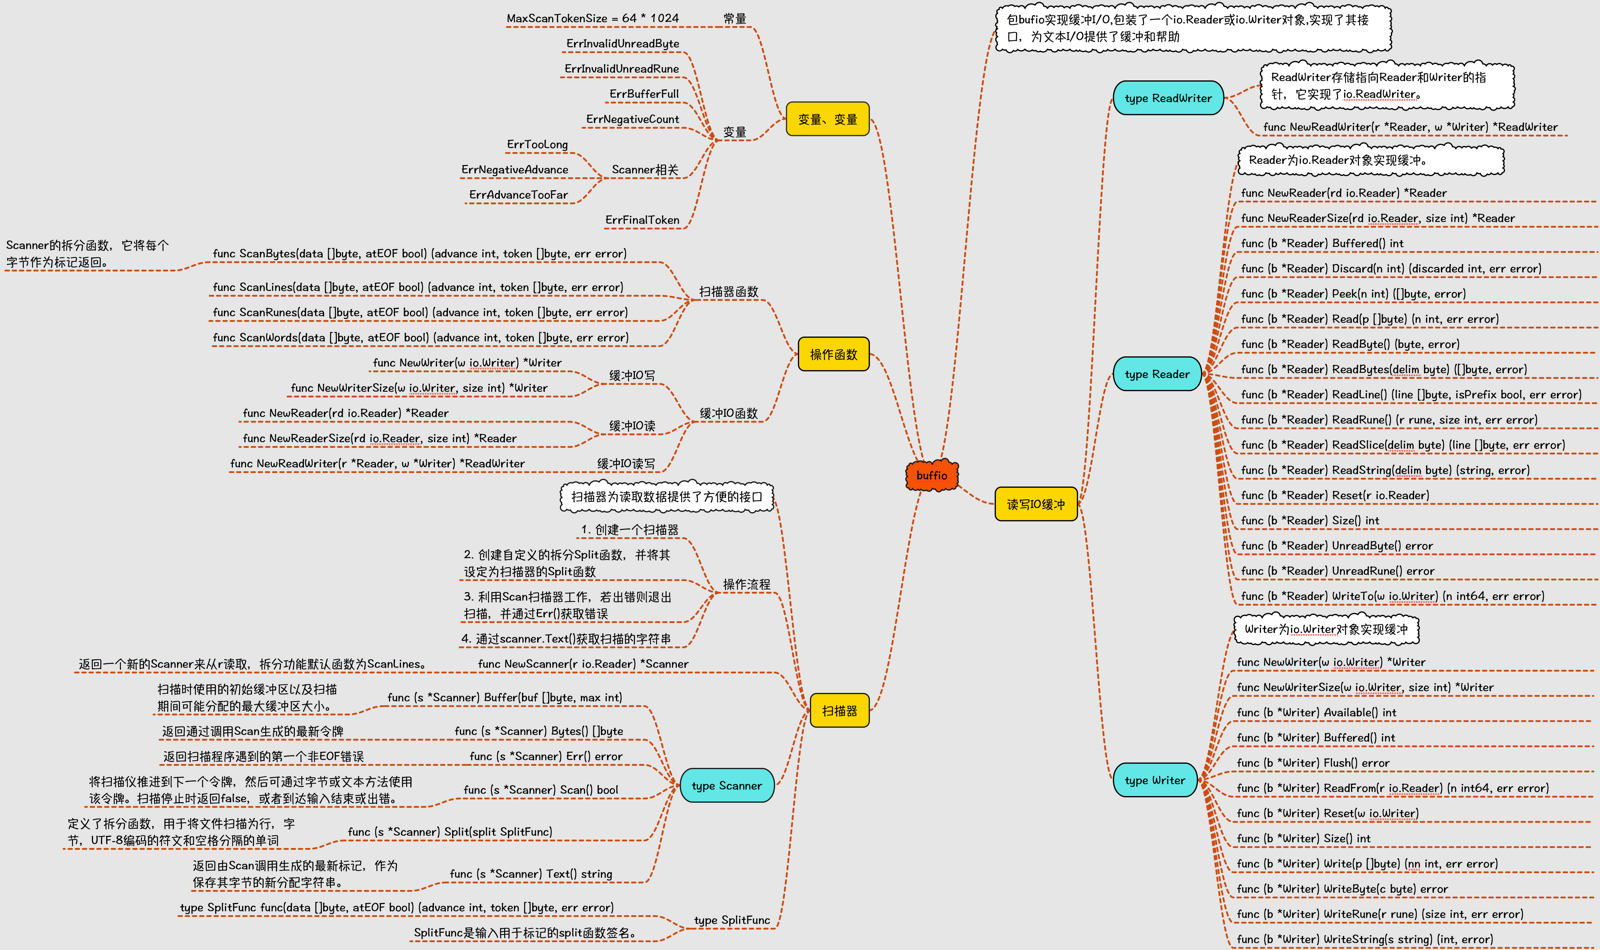
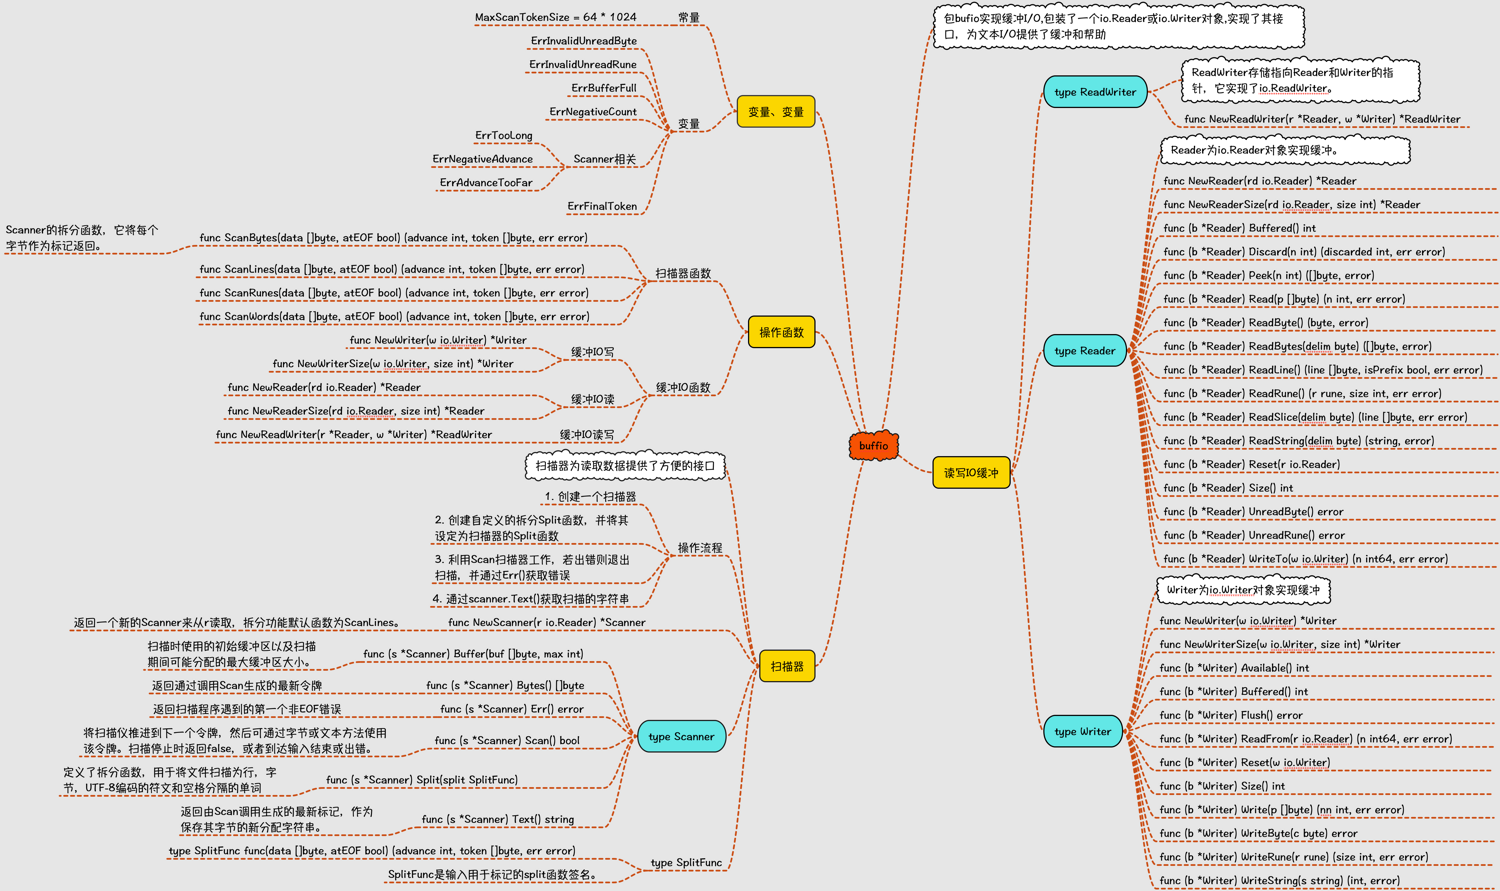
set width size 100%

diff --git a/README.md b/README.md
@@ -8,16 +8,16 @@ keep learning...
 
 ## Golang标准库包记录
 
-<img src="./golang/golang.org_bufio.png" width="800" />
-<img src="./golang/golang.org_database_sql.png" width="800" />
-<img src="./golang/golang.org_flag.png" width="800" />
-<img src="./golang/golang.org_image.png" width="800" />
-<img src="./golang/golang.org_io.png" width="800" />
-<img src="./golang/golang.org_os(os,file,path).png" width="800" />
-<img src="./golang/golang.org_strings.png" width="800" />
-<img src="./golang/golang.org_time.png" width="800" />
-<img src="./golang/golang.org_x_fmt.png" width="800" />
-<img src="./golang/golang.org_x_icmp.png" width="800" />
-<img src="./golang/golang.org_x_net.png" width="800" />
+<img src="./golang/golang.org_bufio.png" width="100%" />
+<img src="./golang/golang.org_database_sql.png" width="100%" />
+<img src="./golang/golang.org_flag.png" width="100%" />
+<img src="./golang/golang.org_image.png" width="100%" />
+<img src="./golang/golang.org_io.png" width="100%" />
+<img src="./golang/golang.org_os(os,file,path).png" width="100%" />
+<img src="./golang/golang.org_strings.png" width="100%" />
+<img src="./golang/golang.org_time.png" width="100%" />
+<img src="./golang/golang.org_x_fmt.png" width="100%" />
+<img src="./golang/golang.org_x_icmp.png" width="100%" />
+<img src="./golang/golang.org_x_net.png" width="100%" />
 
 
